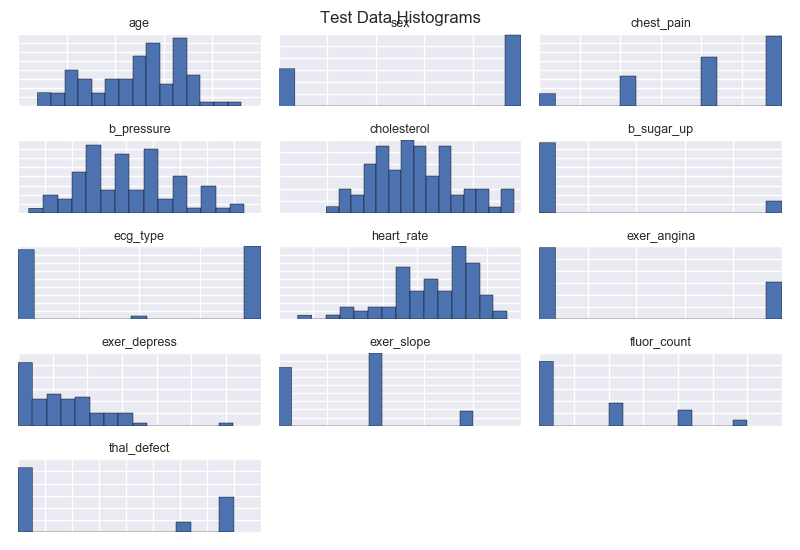
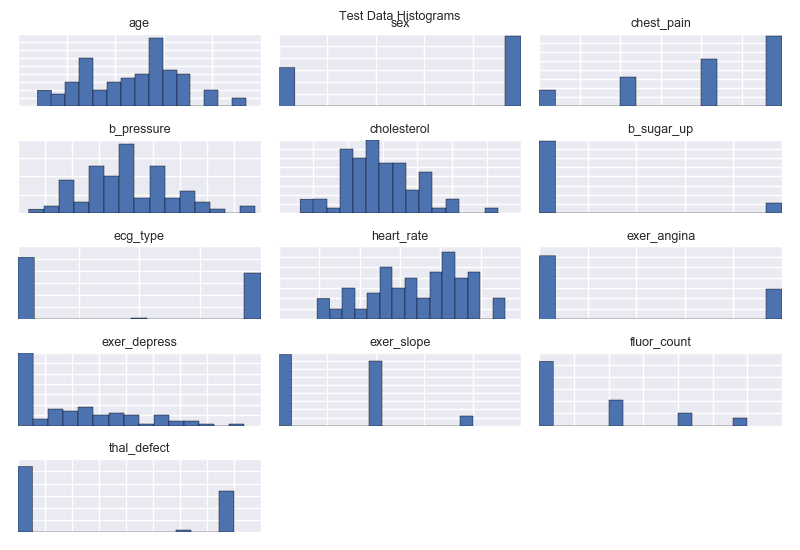
use sklearn lr coefs

diff --git a/coronary_predict.py b/coronary_predict.py
@@ -9,7 +9,6 @@ import numpy as np
 import matplotlib.pyplot as plt
 import seaborn as sns
 import scipy.stats as sst
-from statsmodels.api import Logit as smLogit
 from sklearn.preprocessing import StandardScaler
 from sklearn.decomposition import PCA
 from sklearn.cross_validation import train_test_split, cross_val_score
@@ -110,7 +109,7 @@ def plot_hists(df, plotdir, label='x', ncols=3):
     "Plot histograms of data columns in one plot."
     plt.clf()
     f = plt.figure(1)
-    f.suptitle(label + " Data Histograms")
+    f.suptitle(label + " Data Histograms", fontsize=9)
     vlist = list(df.columns)
     nrows = len(vlist) // ncols
     if len(vlist) % ncols > 0:
@@ -142,29 +141,21 @@ def cross_validate(clf, train_X, train_y, cv=5, print_out=False):
         print("  CV raw scores", scores)
     return score, scores
 
+def print_lr_coefs(clf, X_labels):
+    "print logistic regression coefficients"    
+    plist = ((lab, val) for lab, val in zip(X_labels, clf.coef_[0]))
+    plist = sorted(plist, key=lambda e: np.abs(e[1]), reverse=True)
+    plist = pd.Series(data = (e[1] for e in plist), index = (e[0] for e in plist))
+#    print('p(x) = 1 / (1 + exp(a1*x1 + a2*x2 + b))  "logistic function"')
+    print("Columns by logistic fit importance (order depends on random split)\n%s" % plist)
+    print("Intercept:", clf.intercept_[0])
+# usually in top 4-5: ['fluor_count', 'thal_defect', 'sex', 'max_heart_rate']
+
 def explore_pca(train_X):
     pca = PCA()
     pout = pca.fit(train_X)
     print("PCA explained variance ratio\n", pout.explained_variance_ratio_)
 # no huge advantage, takes 8 comps out of 13 to reach 80% total variance
-
-def do_logit(train_X, train_y, X_labels):
-    "do logit fit"
-    dfx = pd.DataFrame( train_X )
-    dfx['const'] = 1.0    # need const for logit fit
-    dfx = np.array(dfx)
-    logit = smLogit( train_y['Y'], dfx )  # train_X[indep_variables]
-    result = logit.fit(disp=False)    # remove noisy output
-    X_labels.append('constant')
-    
-    plist = ((lab, val) for lab, val in zip(X_labels, result.params.values))
-    plist = sorted(plist, key=lambda e: np.abs(e[1]), reverse=True)
-    plist = pd.Series(data = (e[1] for e in plist), index = (e[0] for e in plist))
-#    print('p(x) = 1 / (1 + exp(a1*x1 + a2*x2 + b))  "logistic function"')
-    print("Columns by logistic fit importance (order depends on random split)\n%s" % plist)
-# usually in top 4-5: ['fluor_count', 'thal_defect', 'sex', 'max_heart_rate']
-
-    return result.params
 
 
 def main():
@@ -174,7 +165,7 @@ def main():
 #    print("len train_X %d, test_X %d" % (len(train_X), len(test_X)))
     
     plotdir = make_plotdir()
-    plot_scatter_matrix(train_X, plotdir)  # takes a while, not that useful 
+#    plot_scatter_matrix(train_X, plotdir)  # takes a while, not that useful 
     plot_hists(train_X, plotdir, label='Train')
     plot_hists(test_X, plotdir, label='Test')
     
@@ -182,6 +173,7 @@ def main():
     
     clf = lr()
     fit_predict(clf, train_X, train_y, test_X, test_y, label='logistic')
+    print_lr_coefs(clf, X_labels)
     cross_validate(clf, train_X, train_y['Y'], print_out=True)
 
     clf = LinearSVC()   # score somewhat randomized if not scaled
@@ -189,8 +181,6 @@ def main():
     cross_validate(clf, train_X, train_y['Y'], print_out=True)
     
     explore_pca(train_X)
-    
-    do_logit(train_X, train_y, X_labels)
     
     # repeated runs gives cv scores 0.7 to 0.9, 2*std 0.1 to 0.2
     # almost the same for lr, svc; depends on random train_test_split
